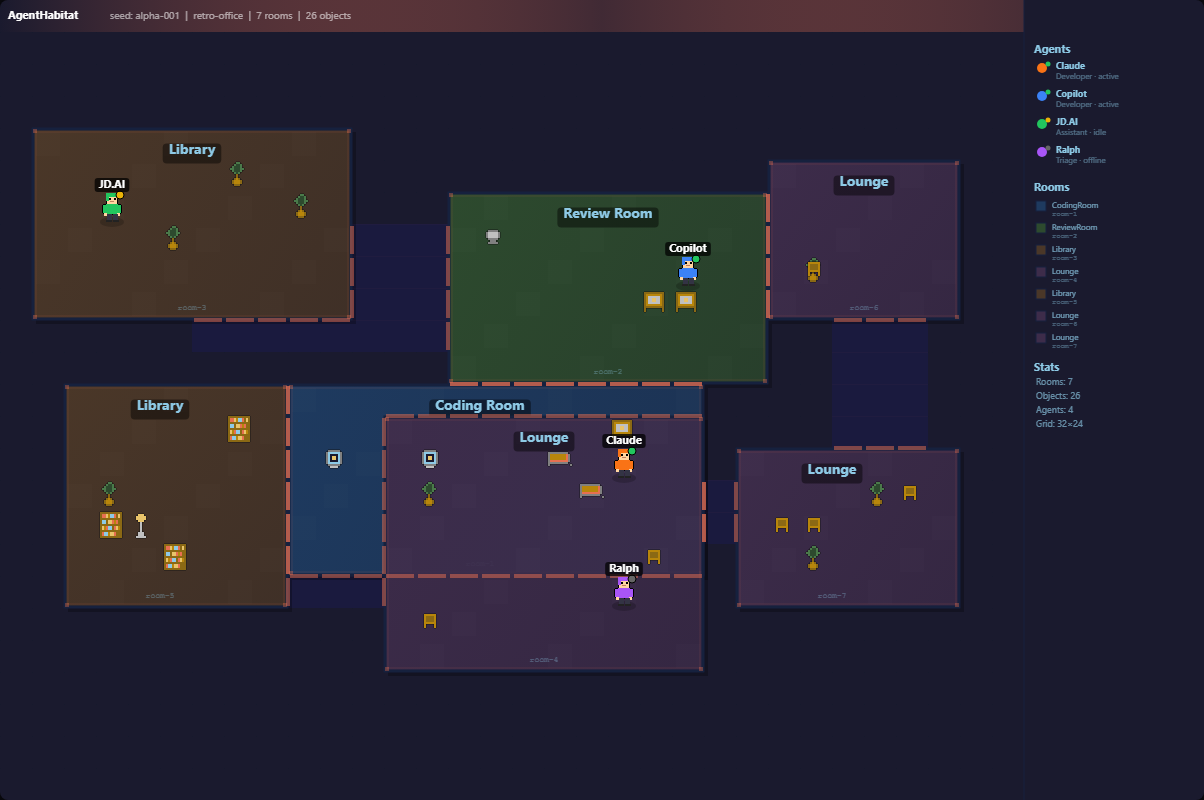
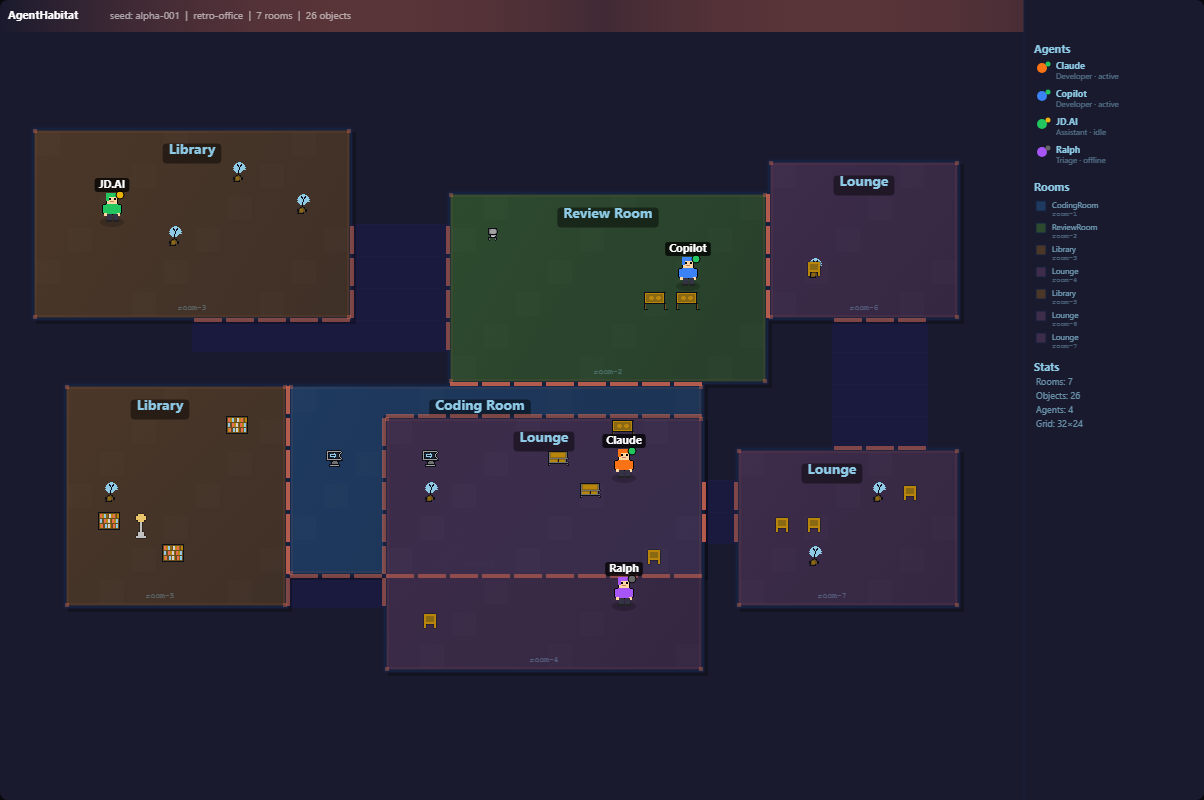
feat(renderer): native 32x32 shaded sprites — desk, monitor, plant, bookshelf, whiteboard, couch, chair
Major sprite quality upgrade:
- True 32x32 pixel art (not upscaled 16x16)
- 3-tone shading per material (shadow/mid/highlight)
- Proper wood grain on desks, glass reflections on monitors
- Multi-row bookshelves with colored book spines
- Potted plants with leaf detail and terracotta pots
- Whiteboards with scribble marks and stand legs
- Couches with cushion shading and armrests
- 16-color shaded palettes per theme
- sprites32.js module for external use

diff --git a/tools/sprites32.js b/tools/sprites32.js
@@ -1,0 +1,326 @@
+/**
+ * High-detail 32x32 pixel art sprites for AgentHabitat.
+ * 3-tone shading (shadow/mid/highlight) per material.
+ * Each row is a 32-char string, hex palette indices, '.' = transparent.
+ */
+
+// 16-color palettes with proper shading ranges
+export const PALETTES_32 = {
+  'retro-office': {
+    colors: [
+      '#0d1117', // 0 - void/outline
+      '#161b22', // 1 - wall shadow
+      '#21262d', // 2 - wall mid
+      '#30363d', // 3 - wall highlight
+      '#1a2332', // 4 - floor shadow
+      '#243447', // 5 - floor mid
+      '#2d4157', // 6 - floor highlight
+      '#6b4e1e', // 7 - wood shadow
+      '#8b6914', // 8 - wood mid
+      '#b8860b', // 9 - wood highlight
+      '#707070', // a - metal shadow
+      '#a0a0a0', // b - metal mid
+      '#d0d0d0', // c - metal highlight
+      '#e76f51', // d - accent warm
+      '#8ecae6', // e - accent cool
+      '#f0e6d2', // f - skin/light
+    ],
+  },
+  'forest-lab': {
+    colors: [
+      '#0a0f0a', // 0
+      '#142414', // 1
+      '#1e3a1e', // 2
+      '#2d5a32', // 3
+      '#162816', // 4
+      '#1e3a22', // 5
+      '#2a4a30', // 6
+      '#3a2a14', // 7
+      '#5a4a28', // 8
+      '#7a6a38', // 9
+      '#505050', // a
+      '#808080', // b
+      '#b0b0b0', // c
+      '#ee6c4d', // d
+      '#a8d5ba', // e
+      '#e8e0d0', // f
+    ],
+  },
+  'neon-hq': {
+    colors: [
+      '#05050f', // 0
+      '#0f0a1e', // 1
+      '#1a1030', // 2
+      '#2a1a4e', // 3
+      '#100a20', // 4
+      '#1a1038', // 5
+      '#251a50', // 6
+      '#2a1a1a', // 7
+      '#3a2a2a', // 8
+      '#5a3a3a', // 9
+      '#404060', // a
+      '#6060a0', // b
+      '#9090d0', // c
+      '#f472b6', // d
+      '#22d3ee', // e
+      '#e0e0ff', // f
+    ],
+  },
+};
+
+// Full 32x32 sprites
+export const SPRITES_32 = {
+  desk: [
+    '................................',
+    '................................',
+    '................................',
+    '................................',
+    '....0000000000000000000000......',
+    '....099999999999999999990.......',
+    '....098888888888888888890.......',
+    '....098888888888888888890.......',
+    '....098888999888899988890.......',
+    '....098889999988999998890.......',
+    '....098889999988999998890.......',
+    '....098888999888899988890.......',
+    '....098888888888888888890.......',
+    '....098888888888888888890.......',
+    '....099999999999999999990.......',
+    '....0000000000000000000000......',
+    '....07..................07......',
+    '....07..................07......',
+    '....07..................07......',
+    '....07..................07......',
+    '....08..................08......',
+    '....0000................0000....',
+    '................................',
+    '................................',
+    '................................',
+    '................................',
+    '................................',
+    '................................',
+    '................................',
+    '................................',
+    '................................',
+    '................................',
+  ],
+  monitor: [
+    '................................',
+    '................................',
+    '.......00000000000000...........',
+    '.......0bbbbbbbbbbbb0...........',
+    '.......0b0000000000b0...........',
+    '.......0b04444e440b0...........',
+    '.......0b04eeee440b0...........',
+    '.......0b04e00e440b0...........',
+    '.......0b04eeee440b0...........',
+    '.......0b04444e440b0...........',
+    '.......0b0000000000b0...........',
+    '.......0bbbbbbbbbbbb0...........',
+    '.......00000000000000...........',
+    '..........000aaa000.............',
+    '...........0aaaa0...............',
+    '...........0aaaa0...............',
+    '.........000000000..............',
+    '.........0bbbbbbb0..............',
+    '.........000000000..............',
+    '................................',
+    '................................',
+    '................................',
+    '................................',
+    '................................',
+    '................................',
+    '................................',
+    '................................',
+    '................................',
+    '................................',
+    '................................',
+    '................................',
+    '................................',
+  ],
+  chair: [
+    '................................',
+    '................................',
+    '................................',
+    '................................',
+    '........000000000...............',
+    '........0aabbba0................',
+    '........0abbbba0................',
+    '........0abbbba0................',
+    '........0abbbba0................',
+    '........0aabbba0................',
+    '........000000000...............',
+    '.........0bbbbb0................',
+    '.........0bccb0.................',
+    '........000000000...............',
+    '........0a.....a0...............',
+    '........0a.....a0...............',
+    '.........0.....0................',
+    '................................',
+    '................................',
+    '................................',
+    '................................',
+    '................................',
+    '................................',
+    '................................',
+    '................................',
+    '................................',
+    '................................',
+    '................................',
+    '................................',
+    '................................',
+    '................................',
+    '................................',
+  ],
+  bookshelf: [
+    '..000000000000000000000.........',
+    '..077777777777777777770.........',
+    '..07dd9ee87cc9dd87990...........',
+    '..07dd9ee87cc9dd87990...........',
+    '..07dd9ee87cc9dd87990...........',
+    '..077777777777777777770.........',
+    '..07ee7dd9cc87dd9ee70...........',
+    '..07ee7dd9cc87dd9ee70...........',
+    '..07ee7dd9cc87dd9ee70...........',
+    '..077777777777777777770.........',
+    '..079dd7ee8cc97dd8ee70...........',
+    '..079dd7ee8cc97dd8ee70...........',
+    '..079dd7ee8cc97dd8ee70...........',
+    '..077777777777777777770.........',
+    '..07cc9dd87ee9cc87770...........',
+    '..07cc9dd87ee9cc87770...........',
+    '..07cc9dd87ee9cc87770...........',
+    '..077777777777777777770.........',
+    '..000000000000000000000.........',
+    '................................',
+    '................................',
+    '................................',
+    '................................',
+    '................................',
+    '................................',
+    '................................',
+    '................................',
+    '................................',
+    '................................',
+    '................................',
+    '................................',
+    '................................',
+  ],
+  plant: [
+    '................................',
+    '................................',
+    '..............eee...............',
+    '.............eeeee..............',
+    '............ee0e0ee.............',
+    '...........eee0e0eee............',
+    '..........eeee0e0eeee...........',
+    '.........eeeee0eeeee............',
+    '..........eeee0eeee.............',
+    '...........eee0eee..............',
+    '............ee0ee...............',
+    '.............e0e................',
+    '..............0.................',
+    '..............0.................',
+    '.............070................',
+    '............07770...............',
+    '...........0788870..............',
+    '...........0788870..............',
+    '...........0788870..............',
+    '............07770...............',
+    '.............000................',
+    '................................',
+    '................................',
+    '................................',
+    '................................',
+    '................................',
+    '................................',
+    '................................',
+    '................................',
+    '................................',
+    '................................',
+    '................................',
+  ],
+  whiteboard: [
+    '..0bbbbbbbbbbbbbbbbbbb0........',
+    '..0bccccccccccccccccccb0.......',
+    '..0cf...............fcb0.......',
+    '..0cf..0dd00dd0....fcb0........',
+    '..0cf..............fcb0........',
+    '..0cf....00eee00...fcb0........',
+    '..0cf..............fcb0........',
+    '..0cf...0ee0.0dd0..fcb0........',
+    '..0cf..............fcb0........',
+    '..0cf...............fcb0.......',
+    '..0bccccccccccccccccccb0.......',
+    '..0bbbbbbbbbbbbbbbbbbb0........',
+    '..........0bb0..0bb0...........',
+    '..........0bb0..0bb0...........',
+    '..........0bb0..0bb0...........',
+    '.........0bbbb00bbbb0..........',
+    '................................',
+    '................................',
+    '................................',
+    '................................',
+    '................................',
+    '................................',
+    '................................',
+    '................................',
+    '................................',
+    '................................',
+    '................................',
+    '................................',
+    '................................',
+    '................................',
+    '................................',
+    '................................',
+  ],
+  couch: [
+    '................................',
+    '................................',
+    '................................',
+    '....0000000000000000000.........',
+    '....0a888888888888888a0.........',
+    '....0a899999999999998a0.........',
+    '....0a899999999999998a0.........',
+    '....0a899999999999998a0.........',
+    '....0a899999999999998a0.........',
+    '....0a888888888888888a0.........',
+    '....0aaaaaaaaaaaaaaaaa0.........',
+    '....0a88888880888888a0..........',
+    '....0a99999980999999a0..........',
+    '....0a99999980999999a0..........',
+    '....0aaaaaaaaaaaaaaaaa0.........',
+    '....0000000000000000000.........',
+    '....0a.................a0.......',
+    '....00.................00.......',
+    '................................',
+    '................................',
+    '................................',
+    '................................',
+    '................................',
+    '................................',
+    '................................',
+    '................................',
+    '................................',
+    '................................',
+    '................................',
+    '................................',
+    '................................',
+    '................................',
+  ],
+};
+
+export function drawSprite32(ctx, name, px, py, palette, overrideColor = null) {
+  const sprite = SPRITES_32[name];
+  if (!sprite) return false;
+  const colors = palette.colors;
+  for (let row = 0; row < sprite.length; row++) {
+    for (let col = 0; col < sprite[row].length; col++) {
+      const ch = sprite[row][col];
+      if (ch === '.') continue;
+      ctx.fillStyle = overrideColor || colors[parseInt(ch, 16)];
+      ctx.fillRect(px + col, py + row, 1, 1);
+    }
+  }
+  return true;
+}

diff --git a/tools/worldgen-renderer.html b/tools/worldgen-renderer.html
@@ -259,6 +259,23 @@ function drawPixelSprite(ctx, name, px, py, style, scale = 2, overrideColor = nu
   }
 }
 
+// --- 32x32 Sprite Palettes (shaded) ---
+const SPRITE_PALS_32 = {
+  'retro-office': ['#0d1117','#161b22','#21262d','#30363d','#1a2332','#243447','#2d4157','#6b4e1e','#8b6914','#b8860b','#707070','#a0a0a0','#d0d0d0','#e76f51','#8ecae6','#f0e6d2'],
+  'forest-lab': ['#0a0f0a','#142414','#1e3a1e','#2d5a32','#162816','#1e3a22','#2a4a30','#3a2a14','#5a4a28','#7a6a38','#505050','#808080','#b0b0b0','#ee6c4d','#a8d5ba','#e8e0d0'],
+  'neon-hq': ['#05050f','#0f0a1e','#1a1030','#2a1a4e','#100a20','#1a1038','#251a50','#2a1a1a','#3a2a2a','#5a3a3a','#404060','#6060a0','#9090d0','#f472b6','#22d3ee','#e0e0ff'],
+};
+
+const SPRITES_32_DATA = {
+  desk: ['................................','................................','................................','................................','....0000000000000000000000......','....099999999999999999990.......','....098888888888888888890.......','....098888888888888888890.......','....098888999888899988890.......','....098889999988999998890.......','....098889999988999998890.......','....098888999888899988890.......','....098888888888888888890.......','....098888888888888888890.......','....099999999999999999990.......','....0000000000000000000000......','....07..................07......','....07..................07......','....07..................07......','....07..................07......','....08..................08......','....0000................0000....','................................','................................','................................','................................','................................','................................','................................','................................','................................','................................'],
+  monitor: ['................................','................................','.......00000000000000...........','......0bbbbbbbbbbbbbb0..........','......0b0000000000000b0.........','......0b044444e44440b0.........','......0b04eeeeee440b0..........','......0b04e0000e440b0..........','......0b04eeeeee440b0..........','......0b044444e44440b0.........','......0b0000000000000b0.........','......0bbbbbbbbbbbbbb0..........','......00000000000000000.........','..........000aaaa000............','...........0aaaaaa0.............','...........0aaaaaa0.............','.........00000000000............','.........0bbbbbbbbb0............','.........00000000000............','................................','................................','................................','................................','................................','................................','................................','................................','................................','................................','................................','................................','................................'],
+  plant: ['................................','................................','..............eee...............','............eeeeeee.............','...........ee0eee0ee............','..........eee00e00eee...........','..........eeee0e0eeee...........','.........eeeeee0eeeeee..........','..........eeeee0eeeee...........','.........eeeeee0eeeeee..........','..........eeee0eeee.............','...........eee0eee..............','............ee0ee...............','..............0.................','..............0.................','............00700...............','...........077770...............','.........0078887700.............','.........0078887700.............','.........0078887700.............','..........077770................','.........0000000................','................................','................................','................................','................................','................................','................................','................................','................................','................................','................................'],
+  bookshelf: ['..0000000000000000000000.........','..0777777777777777777770........','..07dd99ee887cc99dd87990.......','..07dd99ee887cc99dd87990.......','..07dd99ee887cc99dd87990.......','..07dd99ee887cc99dd87990.......','..0777777777777777777770........','..07ee77dd99cc87dd99ee70.......','..07ee77dd99cc87dd99ee70.......','..07ee77dd99cc87dd99ee70.......','..07ee77dd99cc87dd99ee70.......','..0777777777777777777770........','..079dd77ee8cc977dd8ee70.......','..079dd77ee8cc977dd8ee70.......','..079dd77ee8cc977dd8ee70.......','..079dd77ee8cc977dd8ee70.......','..0777777777777777777770........','..0000000000000000000000.........','................................','................................','................................','................................','................................','................................','................................','................................','................................','................................','................................','................................','................................','................................'],
+  whiteboard: ['..00bbbbbbbbbbbbbbbbbbb00.......','..0bccccccccccccccccccccb0......','..0cf..................fcb0.....','..0cf...0dd000dd0.....fcb0.....','..0cf.................fcb0.....','..0cf.....00eee000....fcb0.....','..0cf.................fcb0.....','..0cf....0ee00.0dd0...fcb0.....','..0cf.................fcb0.....','..0cf..................fcb0.....','..0bccccccccccccccccccccb0......','..00bbbbbbbbbbbbbbbbbbb00.......','...........0bb0...0bb0..........','...........0bb0...0bb0..........','...........0bb0...0bb0..........','.........00bbbb000bbbb00........','................................','................................','................................','................................','................................','................................','................................','................................','................................','................................','................................','................................','................................','................................','................................','................................'],
+  couch: ['................................','................................','................................','....00000000000000000000........','....0a8888888888888888a0........','....0a8999999999999998a0........','....0a8999999999999998a0........','....0a8999999999999998a0........','....0a8999999999999998a0........','....0a8888888888888888a0........','....0aaaaaaaaaaaaaaaaaaa0.......','....0a888888880888888a0.........','....0a999999980999999a0.........','....0a999999980999999a0.........','....0aaaaaaaaaaaaaaaaaaa0.......','....00000000000000000000........','....0a.................a0.......','....00.................00.......','................................','................................','................................','................................','................................','................................','................................','................................','................................','................................','................................','................................','................................','................................'],
+  chair: ['................................','................................','................................','................................','........000000000...............','........0aabbbba0...............','........0abbbbbba0..............','........0abbbbbba0..............','........0abbbbbba0..............','........0aabbbba0...............','........000000000...............','..........0bbbbb0...............','..........0bccb0................','........000000000...............','........0a.....a0...............','........0a.....a0...............','.........0.....0................','................................','................................','................................','................................','................................','................................','................................','................................','................................','................................','................................','................................','................................','................................','................................'],
+};
+
 // --- Renderer ---
 function render(canvas, world) {
   const pal = PALETTES[world.opts.style] || PALETTES['retro-office'];
@@ -385,13 +402,24 @@ function render(canvas, world) {
     }
   }
 
-  // Objects as pixel sprites (scaled to tile size)
+  // Objects as pixel sprites (native 32x32)
   for (const obj of world.objects) {
     const ox = obj.x * tileSize;
     const oy = obj.y * tileSize + oY;
     const sprName = obj.type === 'table' ? 'desk' : obj.type;
-    if (PIXEL_SPRITES[sprName]) {
-      // Draw outline first (1px shifted in 4 directions)
+    // Try native 32x32 sprite first, fall back to 16x16 scaled
+    if (typeof SPRITES_32_DATA !== 'undefined' && SPRITES_32_DATA[sprName]) {
+      const spr = SPRITES_32_DATA[sprName];
+      const spPal = SPRITE_PALS_32[world.opts.style] || SPRITE_PALS_32['retro-office'];
+      for (let row = 0; row < spr.length; row++) {
+        for (let col = 0; col < spr[row].length; col++) {
+          const ch = spr[row][col];
+          if (ch === '.') continue;
+          ctx.fillStyle = spPal[parseInt(ch, 16)];
+          ctx.fillRect(ox + col, oy + row, 1, 1);
+        }
+      }
+    } else if (PIXEL_SPRITES[sprName]) {
       ctx.globalAlpha = 0.4;
       for (const [dx, dy] of [[1,0],[-1,0],[0,1],[0,-1]]) {
         drawPixelSprite(ctx, sprName, ox + dx, oy + dy, world.opts.style, 2, '#111');
@@ -401,9 +429,6 @@ function render(canvas, world) {
     } else {
       ctx.fillStyle = pal.obj;
       ctx.fillRect(ox + 6, oy + 6, 20, 20);
-      ctx.strokeStyle = '#00000060';
-      ctx.lineWidth = 1;
-      ctx.strokeRect(ox + 6, oy + 6, 20, 20);
     }
   }
 
